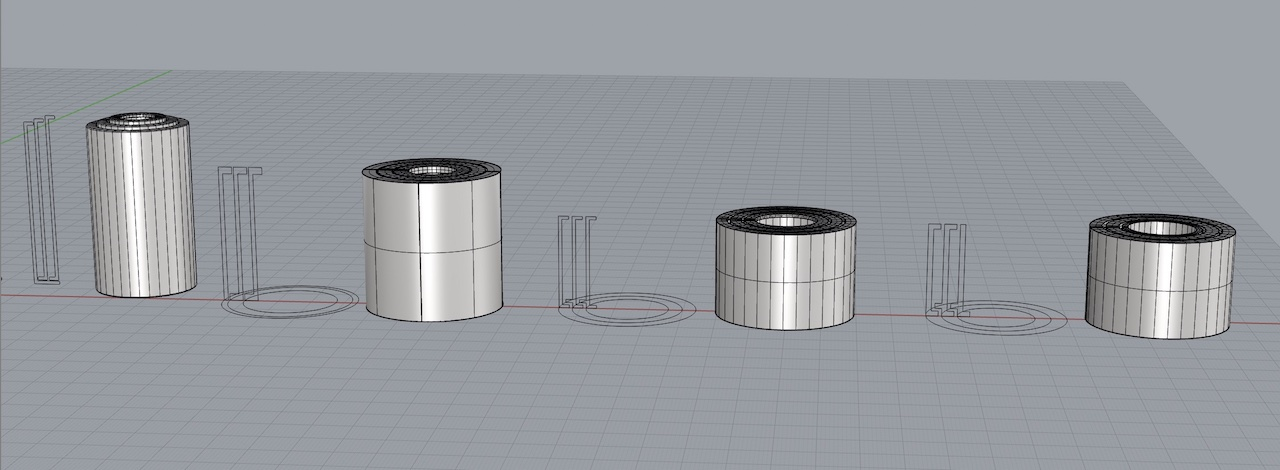
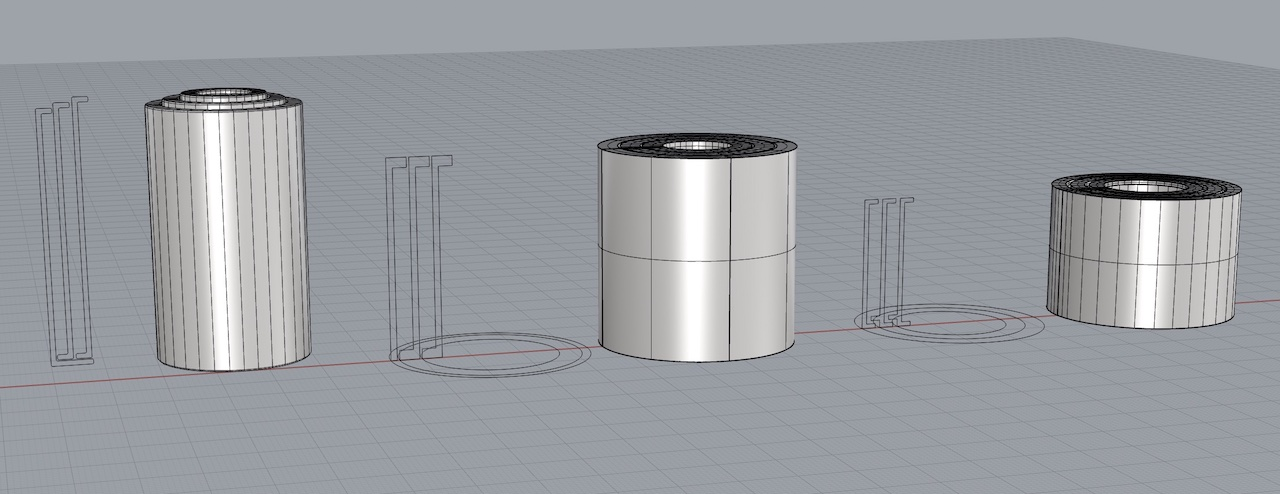
Adding image of final nested shape

Changed region(s): [[0.0, 0.1787, 1.0, 0.7745], [0.0, 0.7745, 0.0312, 0.8043]]

diff --git a/_posts/2022-10-25-A3-3d-printing.md b/_posts/2022-10-25-A3-3d-printing.md
@@ -111,7 +111,13 @@ I had slightly better print results and fewer adhesion issues with the Protopast
     - Print measurements: 29.48 x 30.17 mm
     - Weight: 7.9 g 
 
+![Rhino model of cube, tube, and cylinder](/Digital-Fabrication/assets/images/A3-10.jpeg)
+
 ## Nested Shape
+
+![Collapsed nested shape](/Digital-Fabrication/assets/images/A3-12.jpeg)
+
+![Expanded nested shape](/Digital-Fabrication/assets/images/A3-13.jpeg)
 
 For my nested shape, I wanted to make telescoping cylinders. So I created a simple cross-section in Rhino and used the sweep function to turn it into a cylinder with a locking top lip. I repeated this for the three different size cylinders. 
 
@@ -119,7 +125,9 @@ My first print was a failure because I used the support feature. I thought it wo
 
 I repeated this print without using the supports. That reduced the print time down to 1 hour and 28 minutes. However, the print still failed because the nested cylinders wouldn't telescope. This led me to realize that there was an issue with my model. 
 
-I remodeled the telescoping cylinders so that all three cylinders sat flat on the bed, there was more space between the walls of each cylinder, and that the locking lips are thicker. In addition to changing the design, I also didn't print with adhesion and added a gradual infill. 
+I remodeled the telescoping cylinders so that all three cylinders sat flat on the bed, there was more space between the walls of each cylinder, and that the locking lips are thicker. In addition to changing the design, I also didn't print with adhesion and added a gradual infill. this print was much more successful. Further iterations on this design could be made to have tighter tolerance on the telescoping. 
+
+I printed all of these on the low quality setting since it is the quickest and I was iterating through designs. A higher quality setting would likely give me a higher quality print with tighter tolerances. 
 
 **Failed Prints**
 
@@ -128,11 +136,5 @@ I remodeled the telescoping cylinders so that all three cylinders sat flat on th
 **3d Model Iterations**
 
 ![Nested cylinder versions in Rhino](/Digital-Fabrication/assets/images/A3-09.jpeg)
-
-*Note: I am currently printing another version of this and will add images of that once I get a successful print*
-
-<!-- ## 3D Models
-
-![Rhino model of cube, tubes, cylinder, and nested shape](/Digital-Fabrication/assets/images/A3-10.jpeg) -->
 
 [Download the Rhino File](/Digital-Fabrication/assets/files/A3-3d%20printing.3dm)
